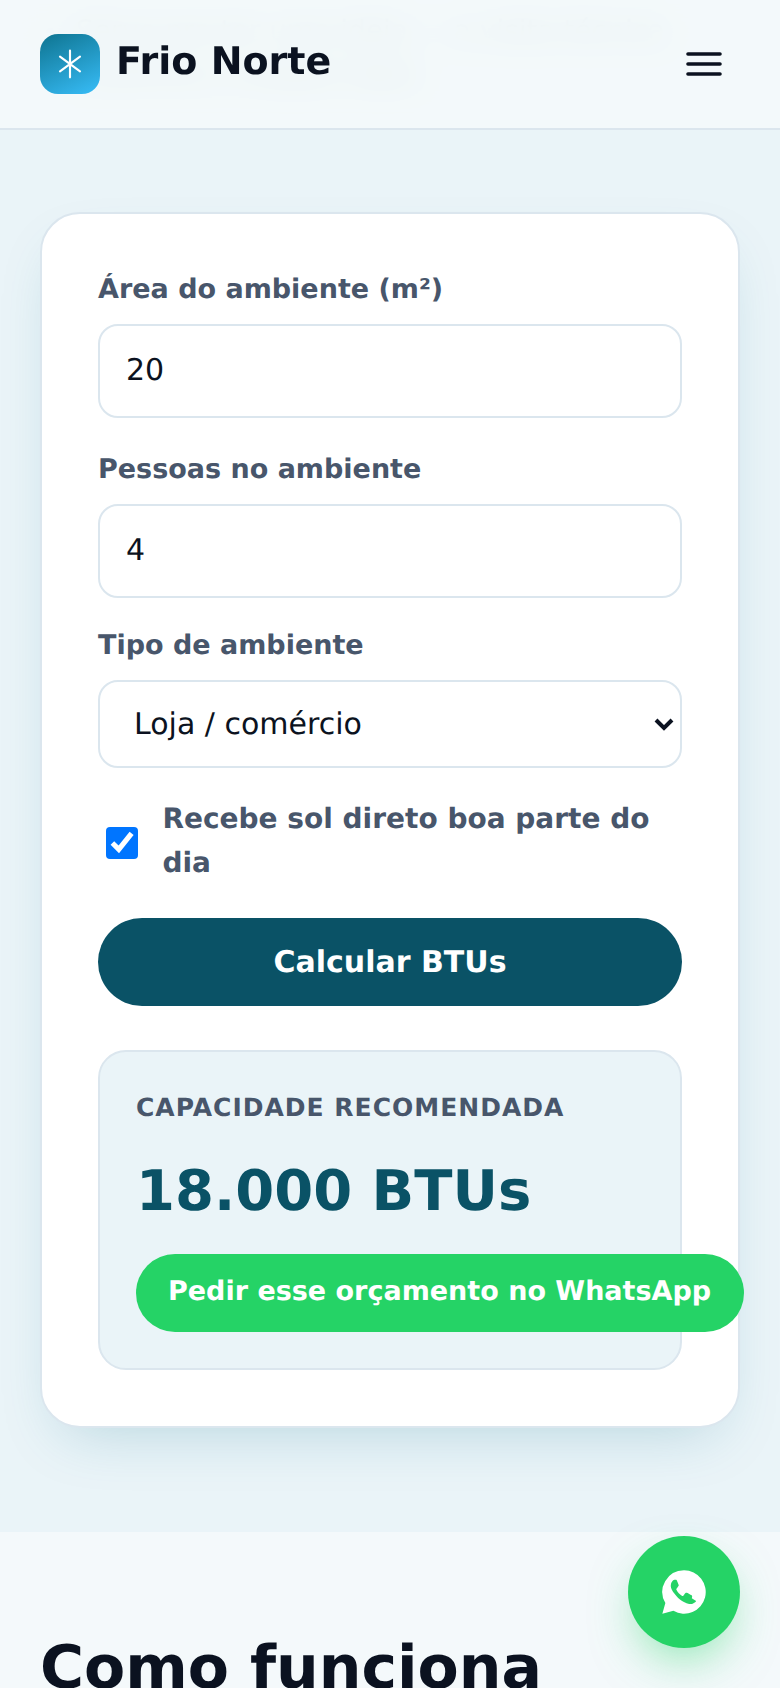
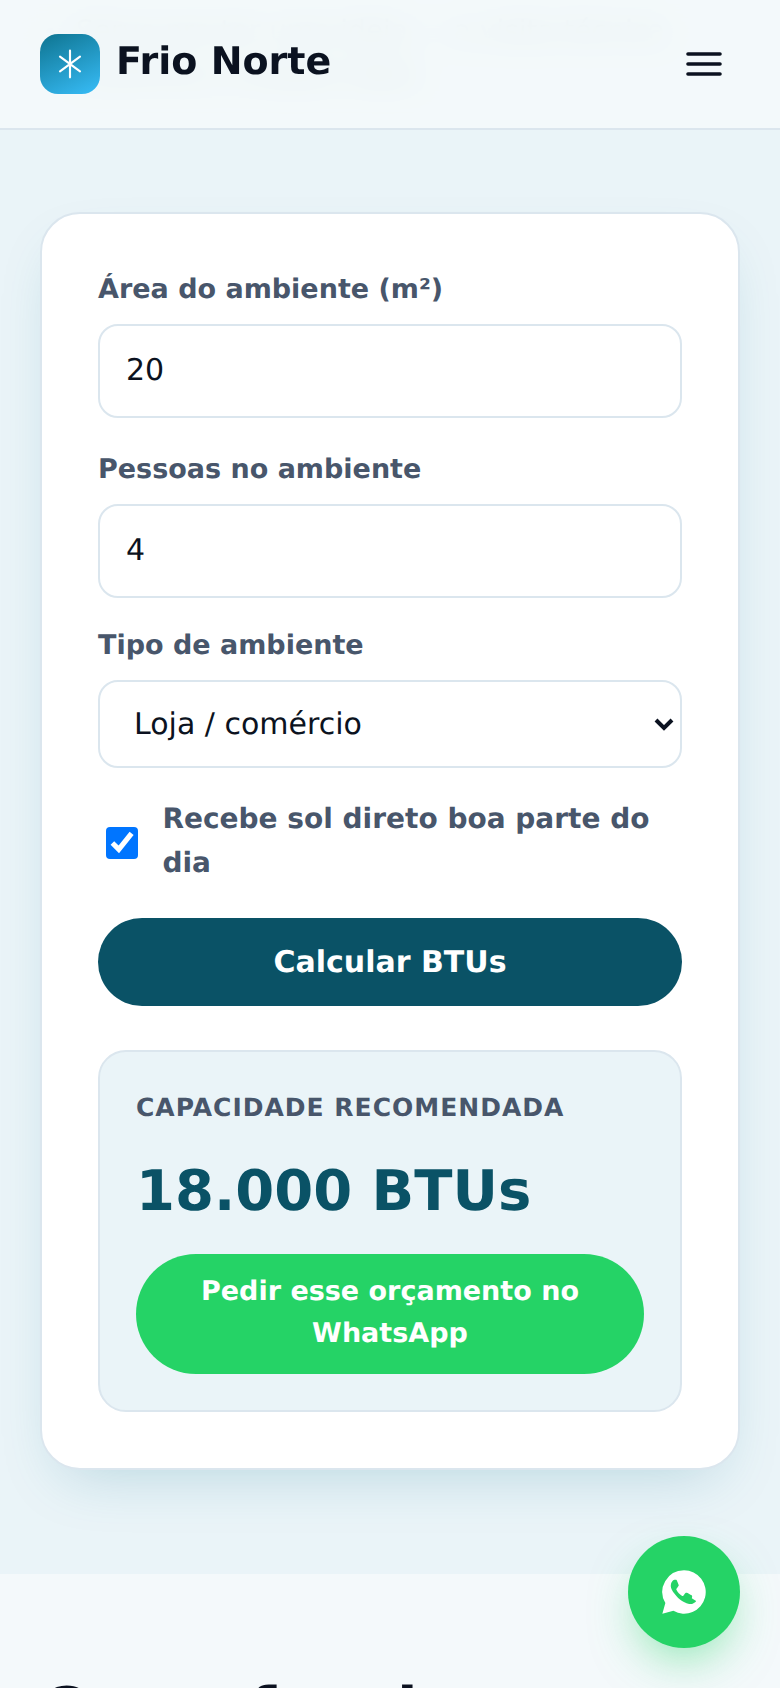
Corrige calculadora de BTUs em ambientes grandes e botão vazando no mobile
Acima de 60.000 BTUs a calculadora caía silenciosamente no maior
aparelho (200 m² recebia metade da capacidade necessária); agora avisa
que o caso pede mais de um aparelho ou sistema central. O botão de
WhatsApp do resultado vazava do card e criava rolagem horizontal em
telas de 360px.

Claude-Session: https://claude.ai/code/session_01SNGhJTcjeFguq5sm6ngrpK

Changed region(s): [[0.0308, 0.7393, 0.9538, 0.8934], [0.0308, 0.955, 0.7077, 1.0]]

diff --git a/js/script.js b/js/script.js
@@ -33,11 +33,13 @@
   // ---- calculadora de BTUs ----
   var TIERS = [7000, 9000, 12000, 18000, 21000, 24000, 30000, 36000, 48000, 60000];
 
+  // null = acima do maior aparelho: devolver o maior tier aqui recomendaria
+  // um aparelho menor que o necessário (ex.: 200 m² pede ~120.000 BTUs).
   function tierAcima(valor) {
     for (var i = 0; i < TIERS.length; i++) {
       if (TIERS[i] >= valor) return TIERS[i];
     }
-    return TIERS[TIERS.length - 1];
+    return null;
   }
 
   var form = document.getElementById("calc-form");
@@ -57,18 +59,21 @@
       if (sol) base *= 1.15;
 
       var recomendado = tierAcima(base);
+      var textoRecomendacao = recomendado
+        ? recomendado.toLocaleString("pt-BR") + " BTUs"
+        : "Acima de " + TIERS[TIERS.length - 1].toLocaleString("pt-BR") + " BTUs";
 
       var resultBox = document.getElementById("calc-result");
       var resultValue = document.getElementById("calc-value");
-      resultValue.textContent = recomendado.toLocaleString("pt-BR") + " BTUs";
+      resultValue.textContent = textoRecomendacao;
+      document.getElementById("calc-note").hidden = !!recomendado;
       resultBox.hidden = false;
 
       var msg =
         "Olá! Usei a calculadora do site: ambiente de " + area +
         " m², " + pessoas + " pessoa(s)" +
         (sol ? ", com sol direto" : "") +
-        ". Recomendação: " + recomendado.toLocaleString("pt-BR") +
-        " BTUs. Quero um orçamento.";
+        ". Recomendação: " + textoRecomendacao + ". Quero um orçamento.";
       document.getElementById("cta-calc").href = linkWhats(msg);
     });
   }

diff --git a/index.html b/index.html
@@ -164,6 +164,7 @@
         <div class="calc-result" id="calc-result" hidden>
           <span class="calc-result-label">Capacidade recomendada</span>
           <span class="calc-result-value" id="calc-value">—</span>
+          <p class="calc-result-note" id="calc-note" hidden>Ambiente grande pra um aparelho só — normalmente se usa mais de um aparelho ou um sistema central. A visita técnica dimensiona.</p>
           <a class="btn btn-whats btn-sm" id="cta-calc" target="_blank" rel="noopener">Pedir esse orçamento no WhatsApp</a>
         </div>
       </form>

diff --git a/css/style.css b/css/style.css
@@ -162,6 +162,8 @@ img{max-width:100%;}
 }
 .calc-result-label{font-size:12.5px; font-weight:700; color:var(--ink-2); text-transform:uppercase; letter-spacing:.04em;}
 .calc-result-value{font-family:var(--font-display); font-size:28px; font-weight:800; color:var(--primary-dark);}
+.calc-result-note{font-size:13.5px; color:var(--ink-2); margin:0;}
+.calc-result .btn{white-space:normal; text-align:center; max-width:100%;}
 
 /* ---------- steps ---------- */
 .steps{

diff --git a/README.md b/README.md
@@ -43,9 +43,10 @@ identificar o padrão mais recorrente de pedido de landing page/site:
   direto. É o mais versátil: serve pra qualquer prestador (eletricista,
   encanador, personal trainer, clínica pequena), não só climatização.
 - Também identifiquei **advocacia** e **produto/e-commerce (tráfego
-  pago)** como nichos fortes — ficam como próximos projetos do
-  portfólio, cada um com seu próprio ângulo (compliance OAB pra
-  advocacia; foco em conversão de campanha pro e-commerce).
+  pago)** como nichos fortes — viraram projetos próprios do portfólio,
+  cada um com seu ângulo: [página de venda pra tráfego pago](https://github.com/jvtdemiranda/landing-produto-trafego-pago)
+  (foco em conversão de campanha) e [site de advocacia trabalhista](https://github.com/jvtdemiranda/landing-advocacia-trabalhista)
+  (regras de publicidade da OAB).
 
 ## Decisões de projeto
 
@@ -60,10 +61,10 @@ identificar o padrão mais recorrente de pedido de landing page/site:
 - **Botão flutuante de WhatsApp** com mensagem pré-definida — várias vagas
   reais pedem exatamente esse padrão de conversão.
 - **Mobile-first**: menu hambúrguer abaixo de 900px, grid de 1 coluna,
-  sem scroll horizontal em nenhum breakpoint testado (390px, 768px,
-  1280px).
+  sem scroll horizontal em nenhum breakpoint testado (320px, 360px,
+  390px, 768px, 1280px).
 
-## Bug real encontrado no processo
+## Bugs reais encontrados no processo
 
 O botão "Calcular BTUs" tinha um resultado que **aparecia mesmo antes de
 clicar** — o elemento usava o atributo HTML `hidden`, mas uma regra CSS
@@ -81,6 +82,22 @@ mobile, os itens do grid (e os dois `<input>` lado a lado dentro dele)
 mantinham a largura mínima de conteúdo (`min-width: auto` padrão do
 navegador), maior que o espaço disponível. Corrigido com `min-width: 0`
 explícito nos itens do grid.
+
+Dois achados numa revisão geral, depois de publicado:
+
+- **A calculadora recomendava um aparelho menor que o necessário em
+  ambientes grandes.** O maior aparelho da tabela é de 60.000 BTUs, e
+  qualquer cálculo acima disso caía silenciosamente nele — um salão de
+  200 m², que pede ~120.000 BTUs, recebia "60.000 BTUs", metade do
+  necessário. Agora mostra "Acima de 60.000 BTUs" e explica que o caso
+  pede mais de um aparelho ou sistema central.
+- **O botão "Pedir esse orçamento no WhatsApp" vazava pra fora do card
+  de resultado** (estava visível até no screenshot deste README) e, em
+  telas de 360px — largura muito comum em celular Android —, criava
+  rolagem horizontal na página inteira. O teste original só cobria
+  390px pra cima. Causa: `white-space: nowrap` em todos os botões;
+  corrigido deixando esse botão quebrar linha, e os testes passaram a
+  incluir 320px e 360px.
 
 ## Estrutura
 
